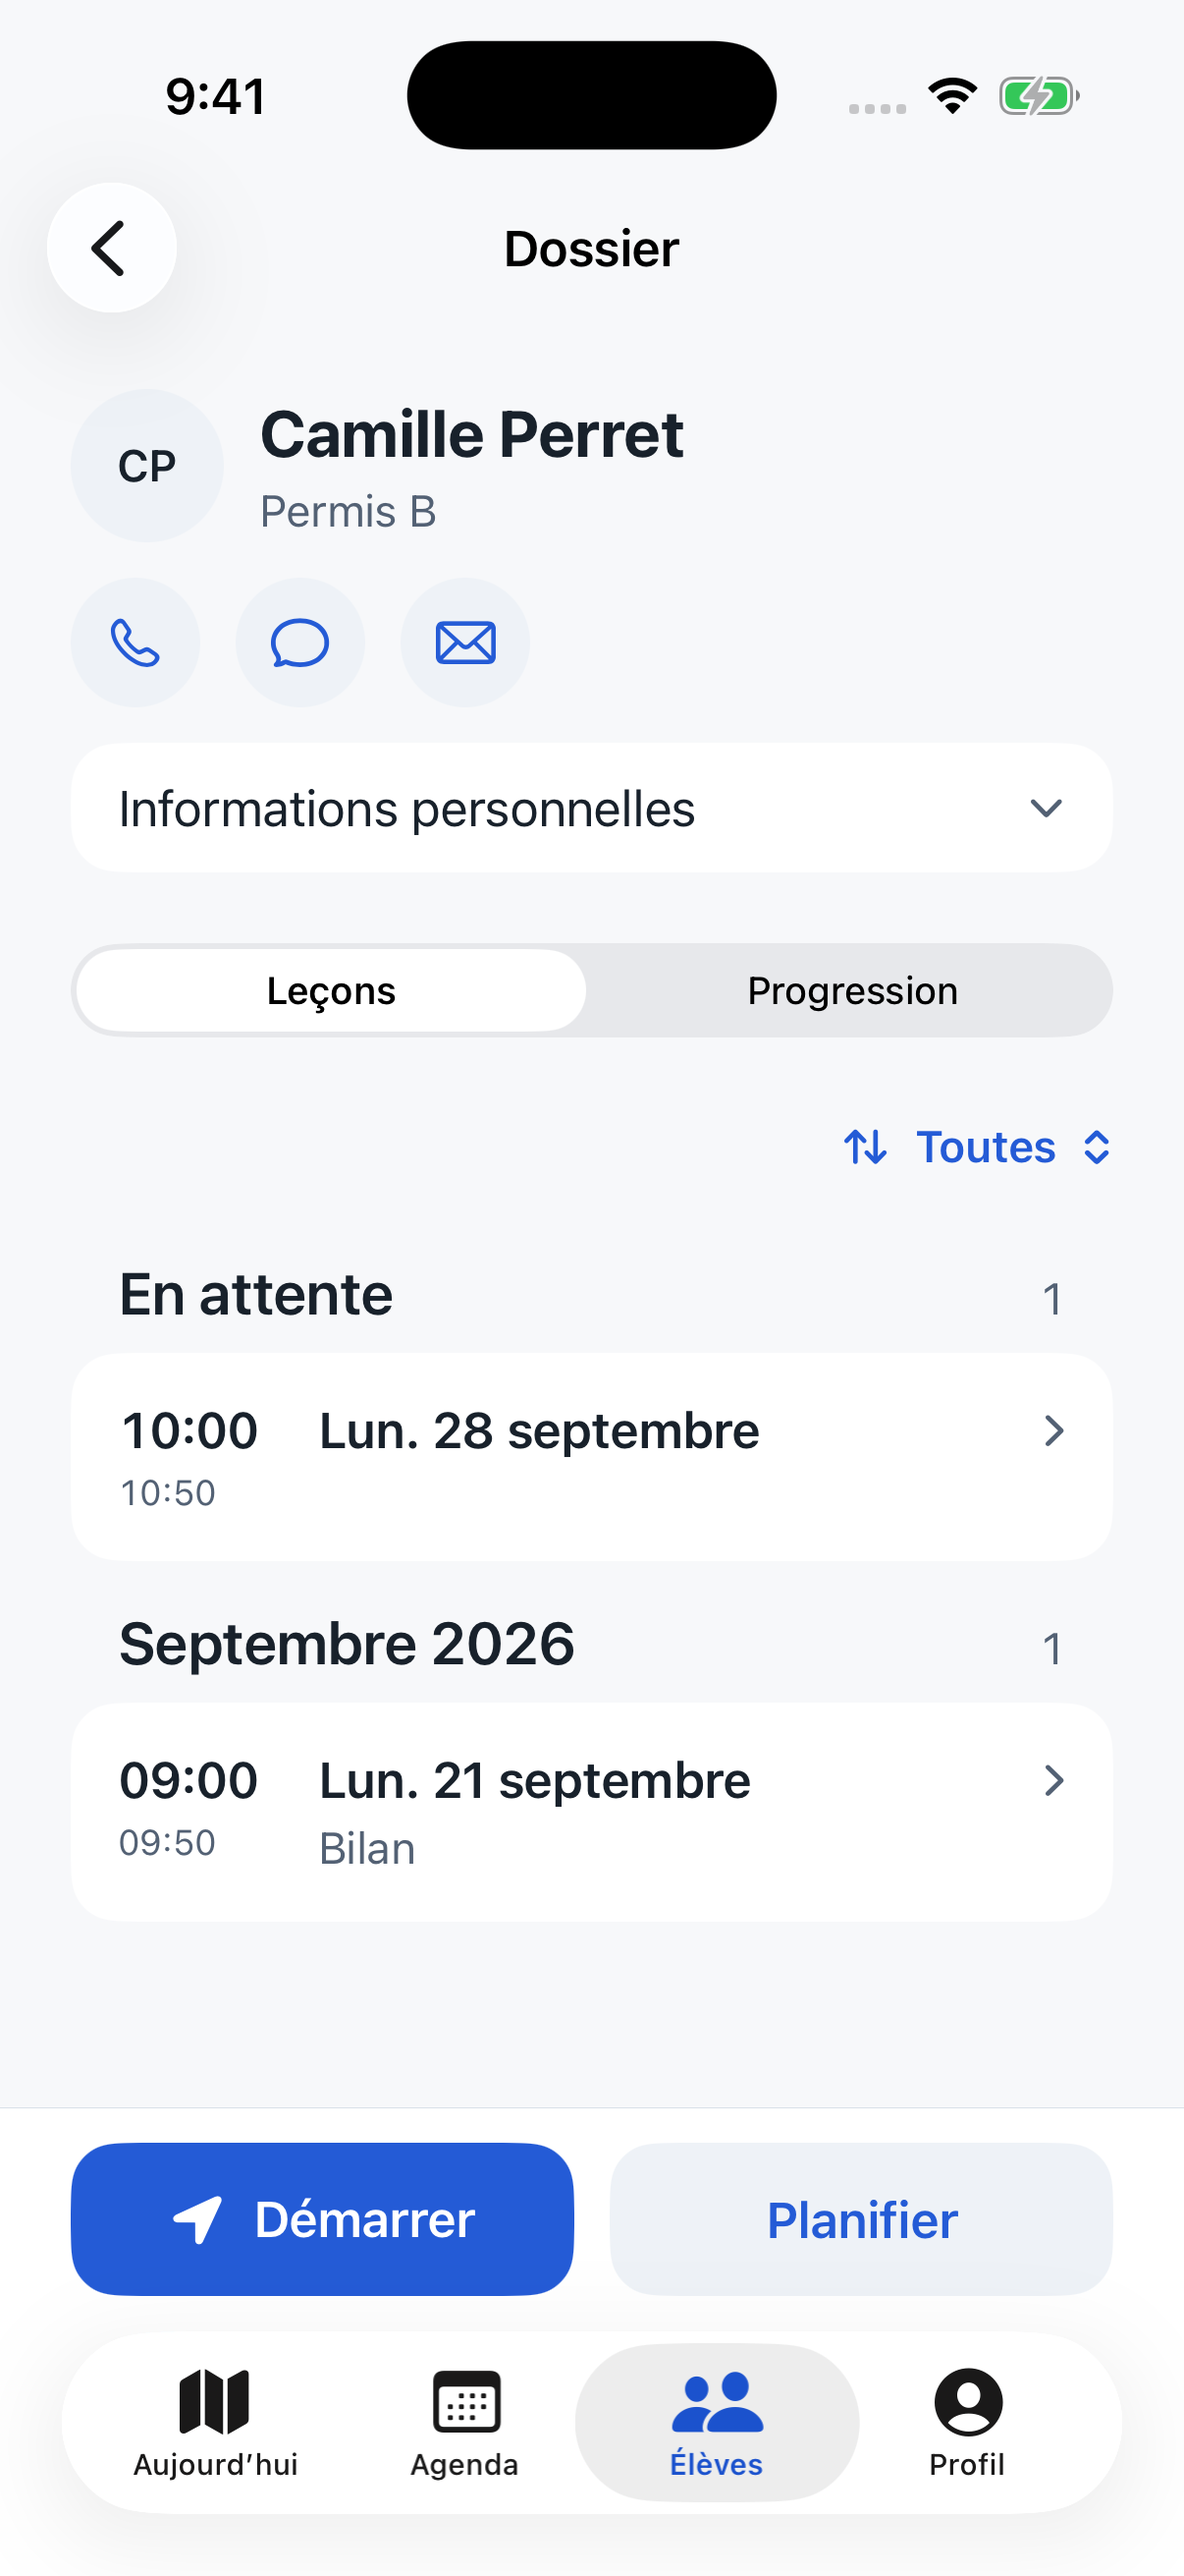
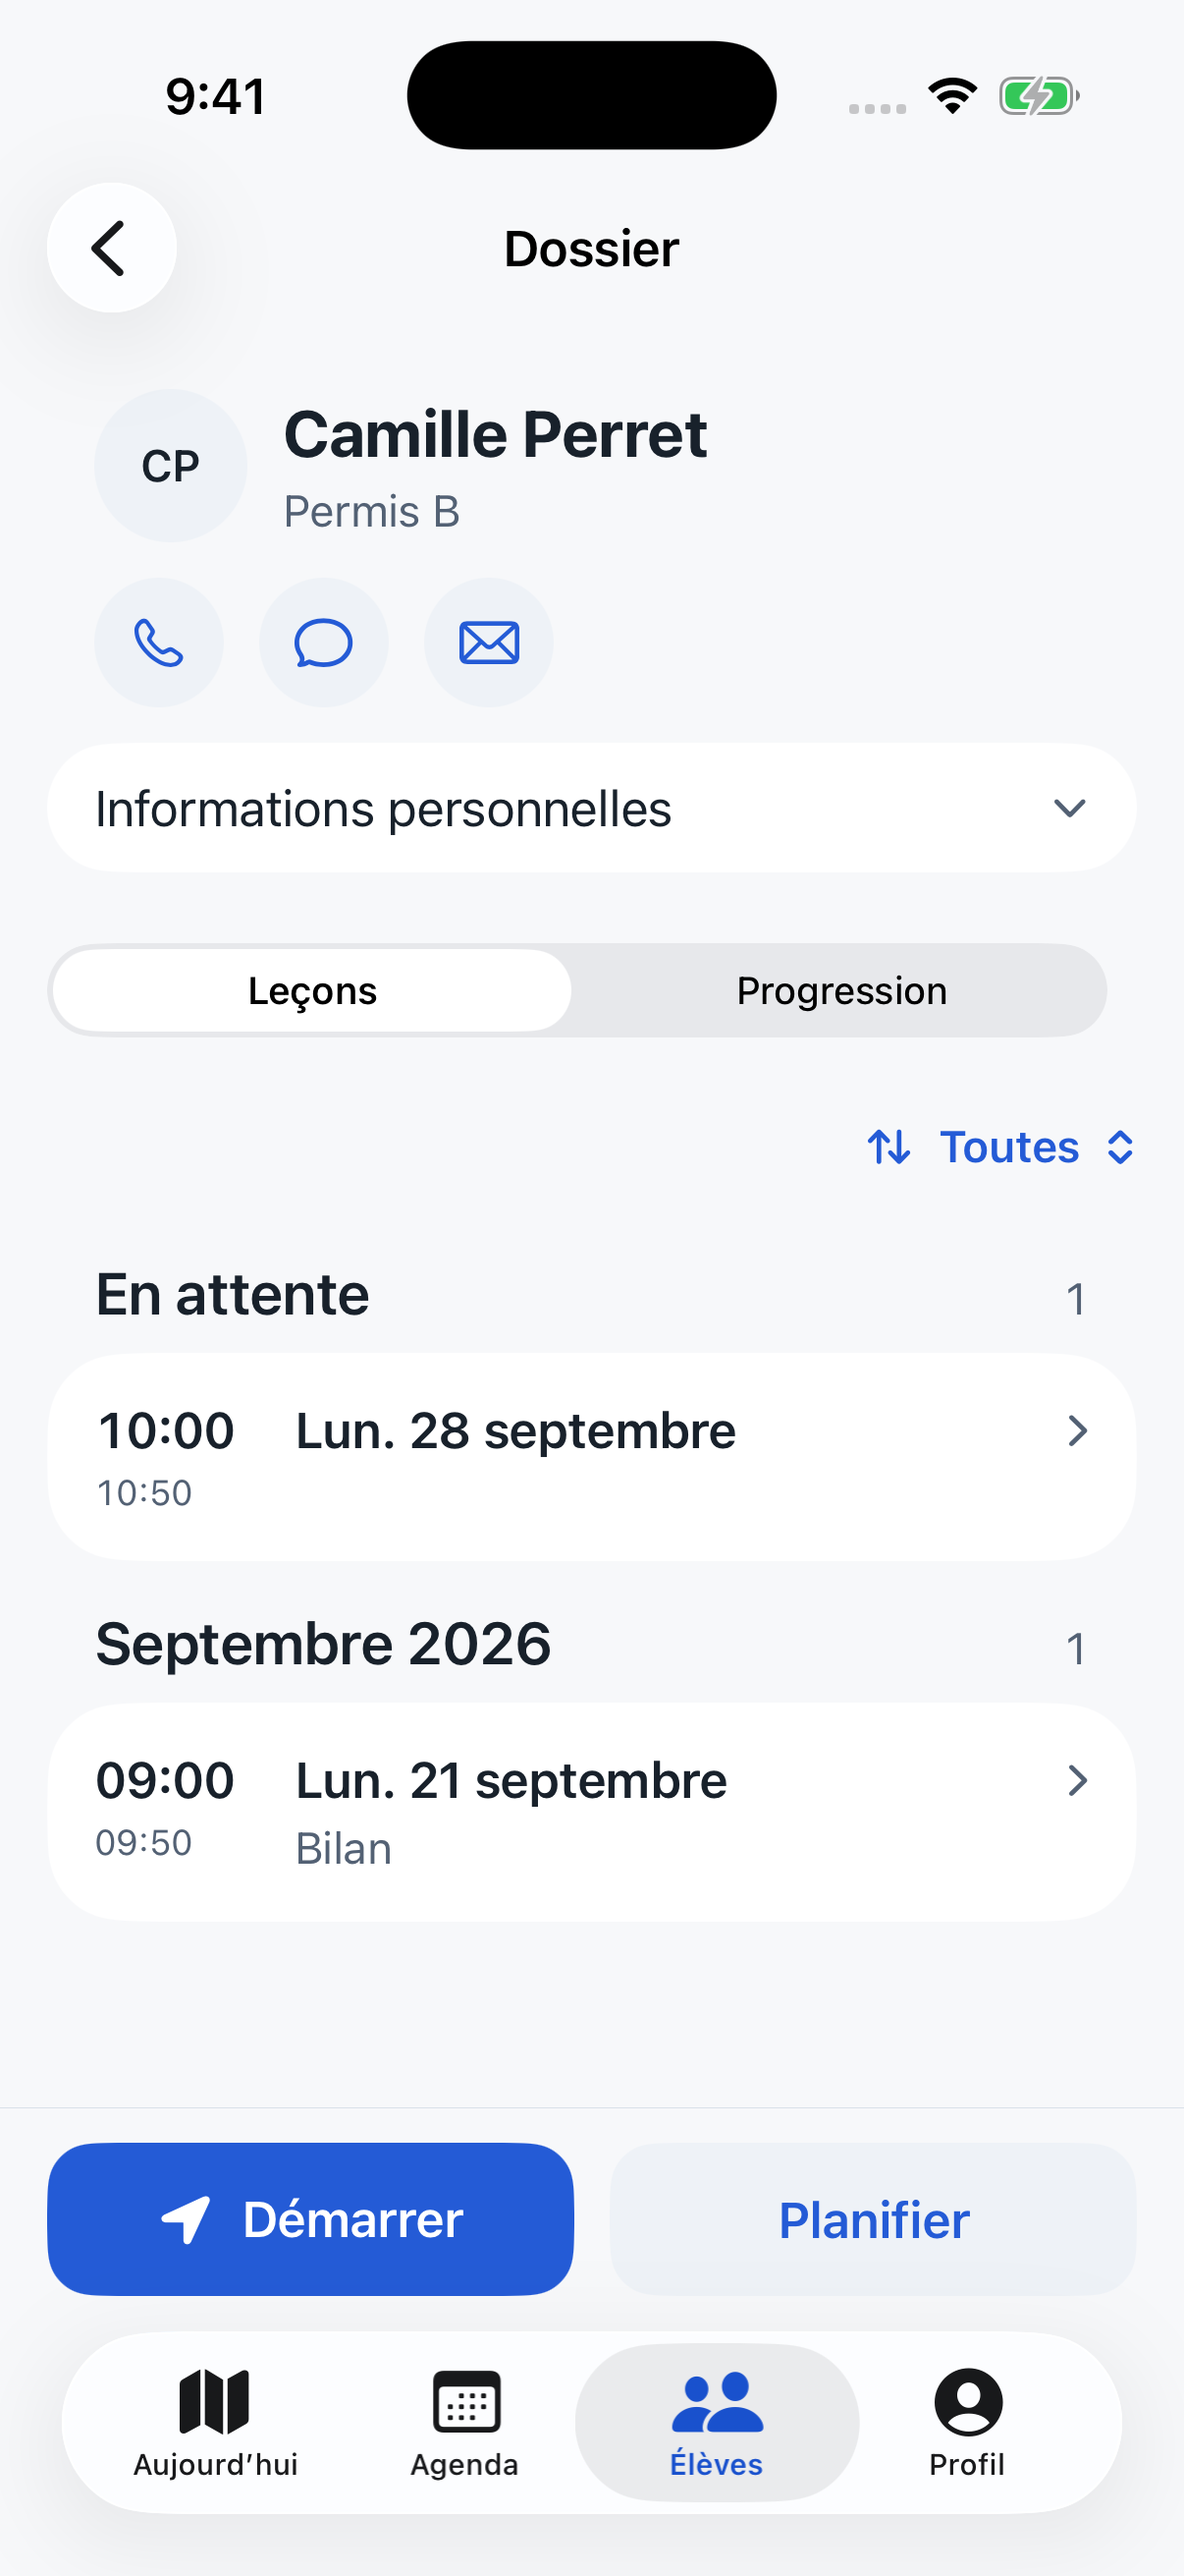
docs: dossier captures after the alignment pass [skip ci]

diff --git a/docs/implementation/direction-artistique-20261011.md b/docs/implementation/direction-artistique-20261011.md
@@ -71,7 +71,8 @@ Retour du porteur : le dossier « est différent des autres ». La première pas
 - Fond `canvas`, identité et gestes de contact posés sur le fond, comme l’en-tête des deux Profils.
 - « Informations personnelles » : une ligne blanche qui se déplie sur place, en corps de texte, comme « Mes informations » chez l’élève.
 - Leçons : chaque mois dans un bloc blanc sous son titre, comme l’historique des leçons. Progression : en blocs, comme chez l’élève.
-- Un seul modificateur pour ces blocs hors `List` : `drivyGroupedBlock()`.
+- Un seul modificateur pour ces blocs hors `List` : `drivyGroupedBlock()`, à l’arrondi des sections groupées (`DrivyRadius.groupedBlock`), dans une colonne aux marges d’une liste groupée (`drivyGroupedPageContent()`).
+- La barre Démarrer / Planifier est posée sur le même fond (`DrivyStickyActionBar(grouped: true)`).
 
-Captures après : [clair](assets/dossier-blocs-20261011/iPhone-dossier-light-synthetic.png), [sombre, plusieurs permis](assets/dossier-blocs-20261011/iPhone-dossier-multi-dark-synthetic.png) (run `38173292134`). IPA d’essai compilée (run `38173288632`). Non exécuté : tests Swift et parcours UI. Non vu : l’onglet Progression du dossier et le volet déplié, que les captures ne montrent pas ; VoiceOver et grand texte.
+Captures après : [clair](assets/dossier-blocs-20261011/iPhone-dossier-light-synthetic.png), [sombre, plusieurs permis](assets/dossier-blocs-20261011/iPhone-dossier-multi-dark-synthetic.png) (run `38174303280`). IPA d’essai compilée (run `38174299908`). Non exécuté : tests Swift et parcours UI. Non vu : l’onglet Progression du dossier et le volet déplié, que les captures ne montrent pas ; VoiceOver et grand texte.
 
